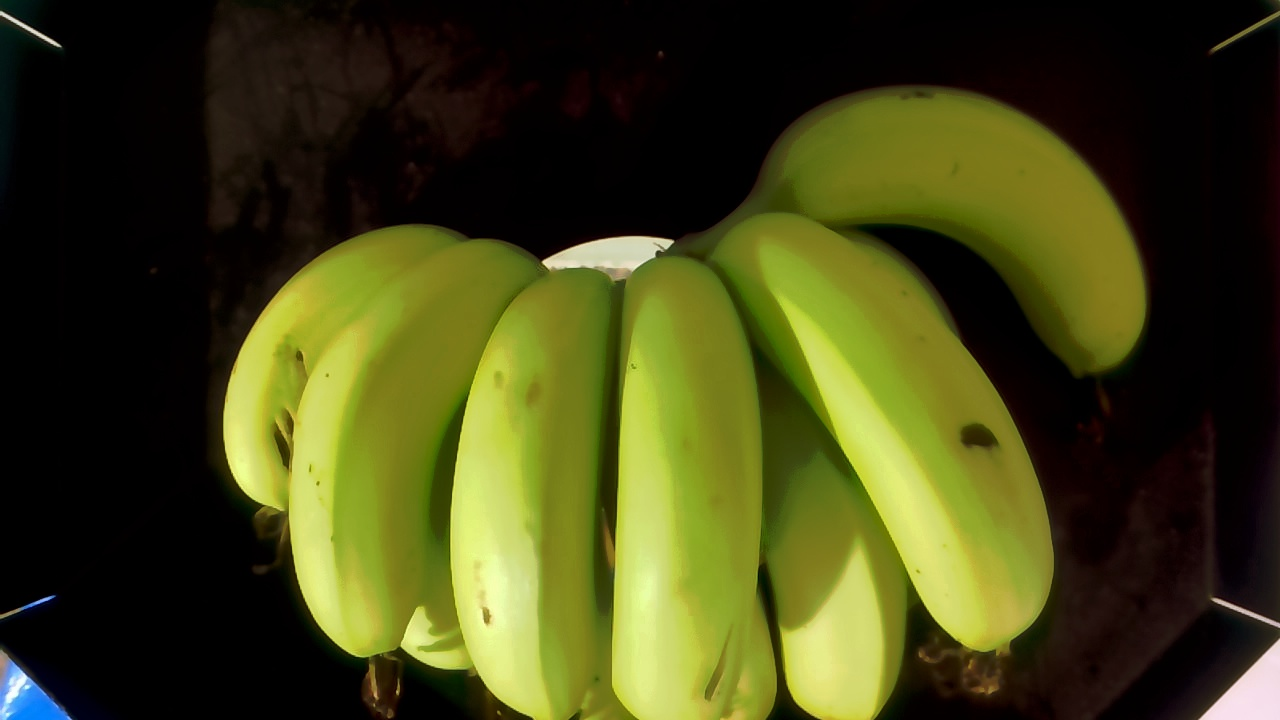
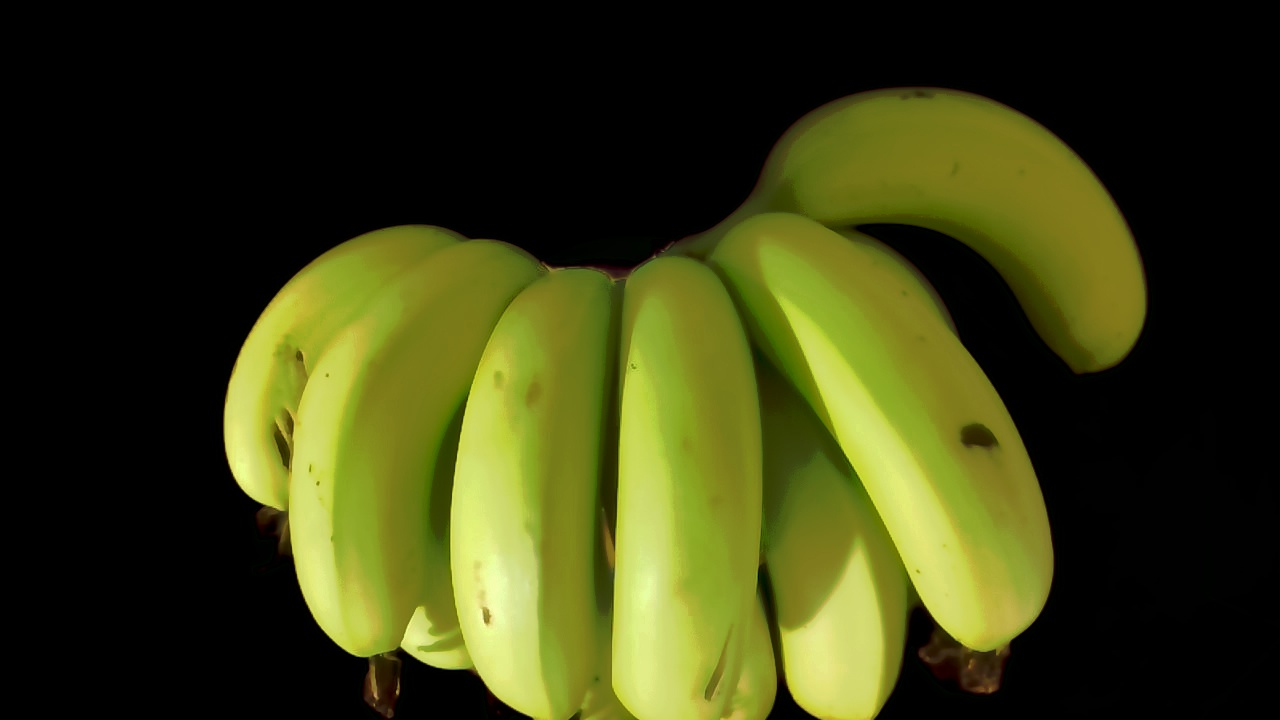
+ bg_remove

diff --git a/main.py b/main.py
@@ -3,7 +3,7 @@ from skimage.exposure import is_low_contrast
 from imutils.paths import list_images
 from skimage import exposure
 import numpy as np
-import argparse
+from rembg import remove
 import imutils
 import cv2
 import sys
@@ -161,6 +161,7 @@ def low_contrast_image_processing(imagePath):
     cv2.imshow("Image", image)
     cv2.imshow("Edge", edged)
     cv2.waitKey(0)
+    cv2.destroyAllWindows()
 
 
 #https://docs.opencv.org/3.0-beta/modules/imgproc/doc/object_detection.html
@@ -192,6 +193,16 @@ def findingTempl_byLeastSquaresMethod(fullImage_path, imageTemplate_path):
     # cv2.waitKey(0)
 
     return cut_color_card
+
+
+#https://github.com/danielgatis/rembg
+def bg_remove3(input_path, output_path):
+    with open(input_path, 'rb') as i:
+        with open(output_path, 'wb') as o:
+            input = i.read()
+            output = remove(input)
+            o.write(output)
+    return output_path
 
 
 if __name__ == '__main__':
@@ -231,9 +242,14 @@ if __name__ == '__main__':
 
     # ================= getting the corrected image =============================================================>
 
-    input_image = cv2.imread('/home/progforce/Banana/yellow_banana.jpg')
+    original_image = '/home/progforce/Banana/yellow_banana.jpg'
+    output_image = 'clear_bananas.jpg'
+
+    input_image_path = bg_remove3(original_image, output_image)
+    input_image = cv2.imread(input_image_path)
     cv2.imshow("original input image", input_image)
     cv2.waitKey(0)
+
 
 
     result_image = match_histograms_mod(imageCard, refCard, input_image)
@@ -241,4 +257,5 @@ if __name__ == '__main__':
 
     cv2.imshow("corrected input image", result_image)
     cv2.waitKey(0)
+    cv2.destroyAllWindows()
 
